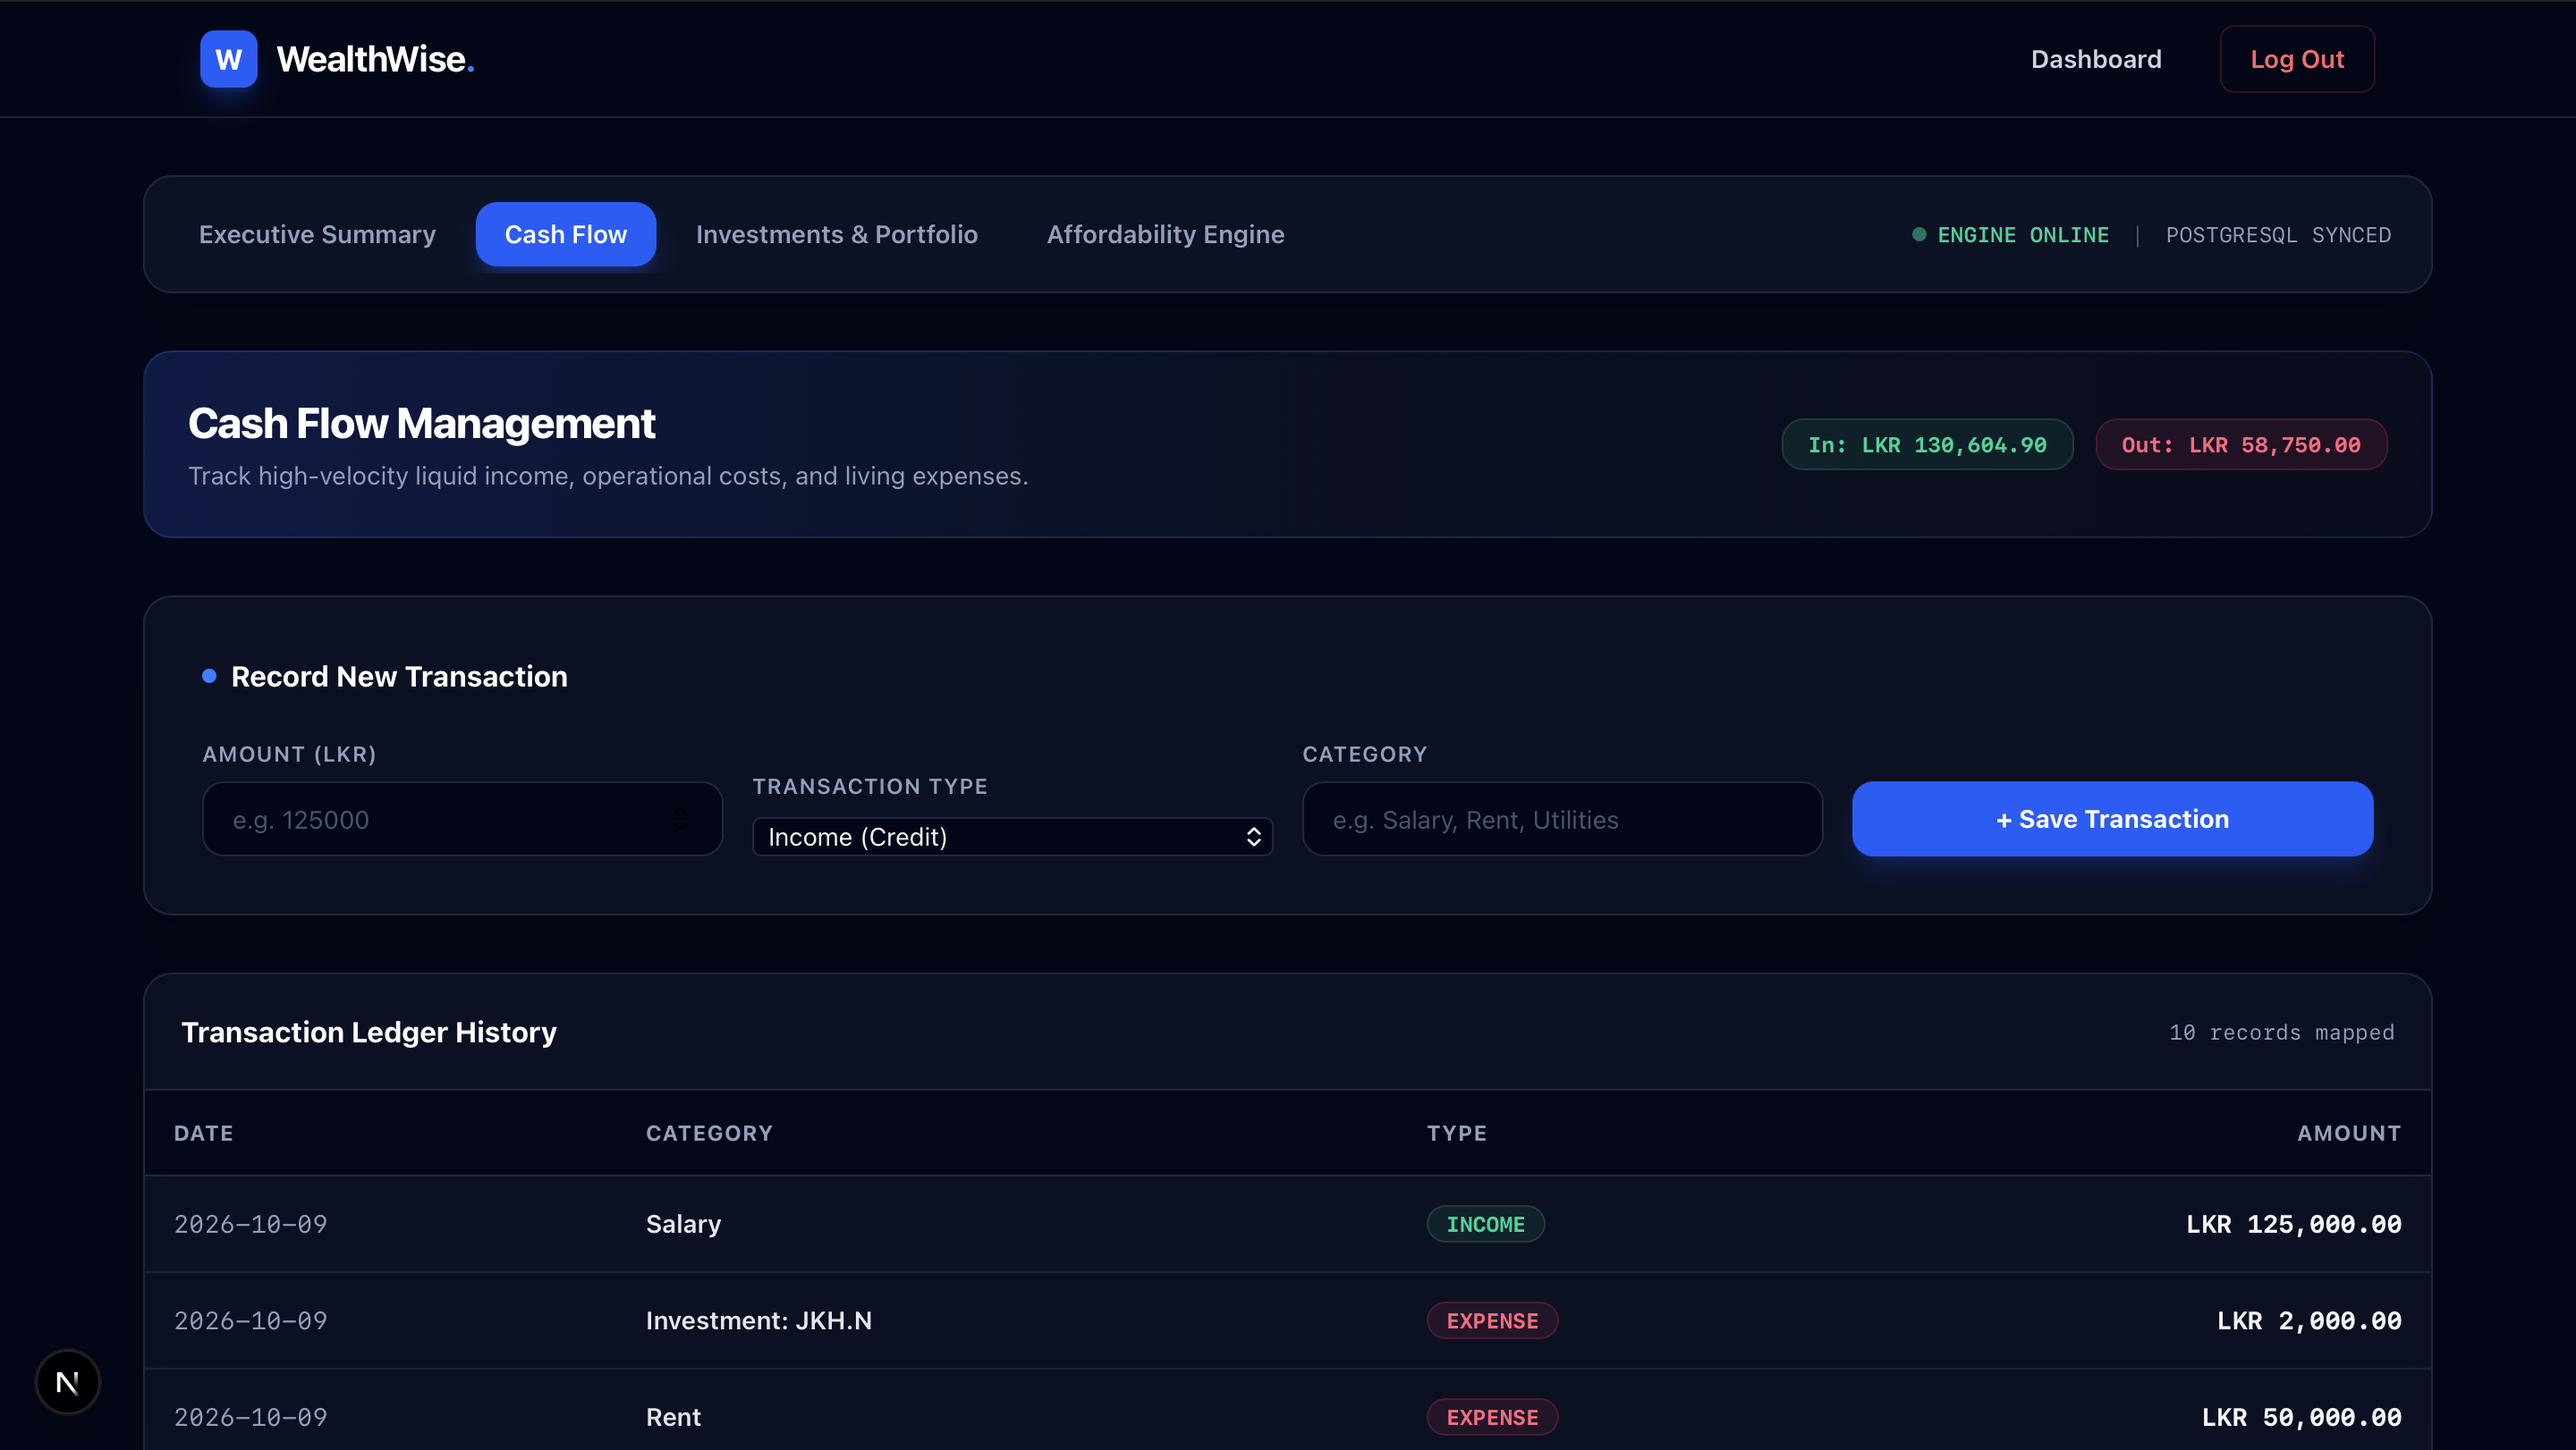
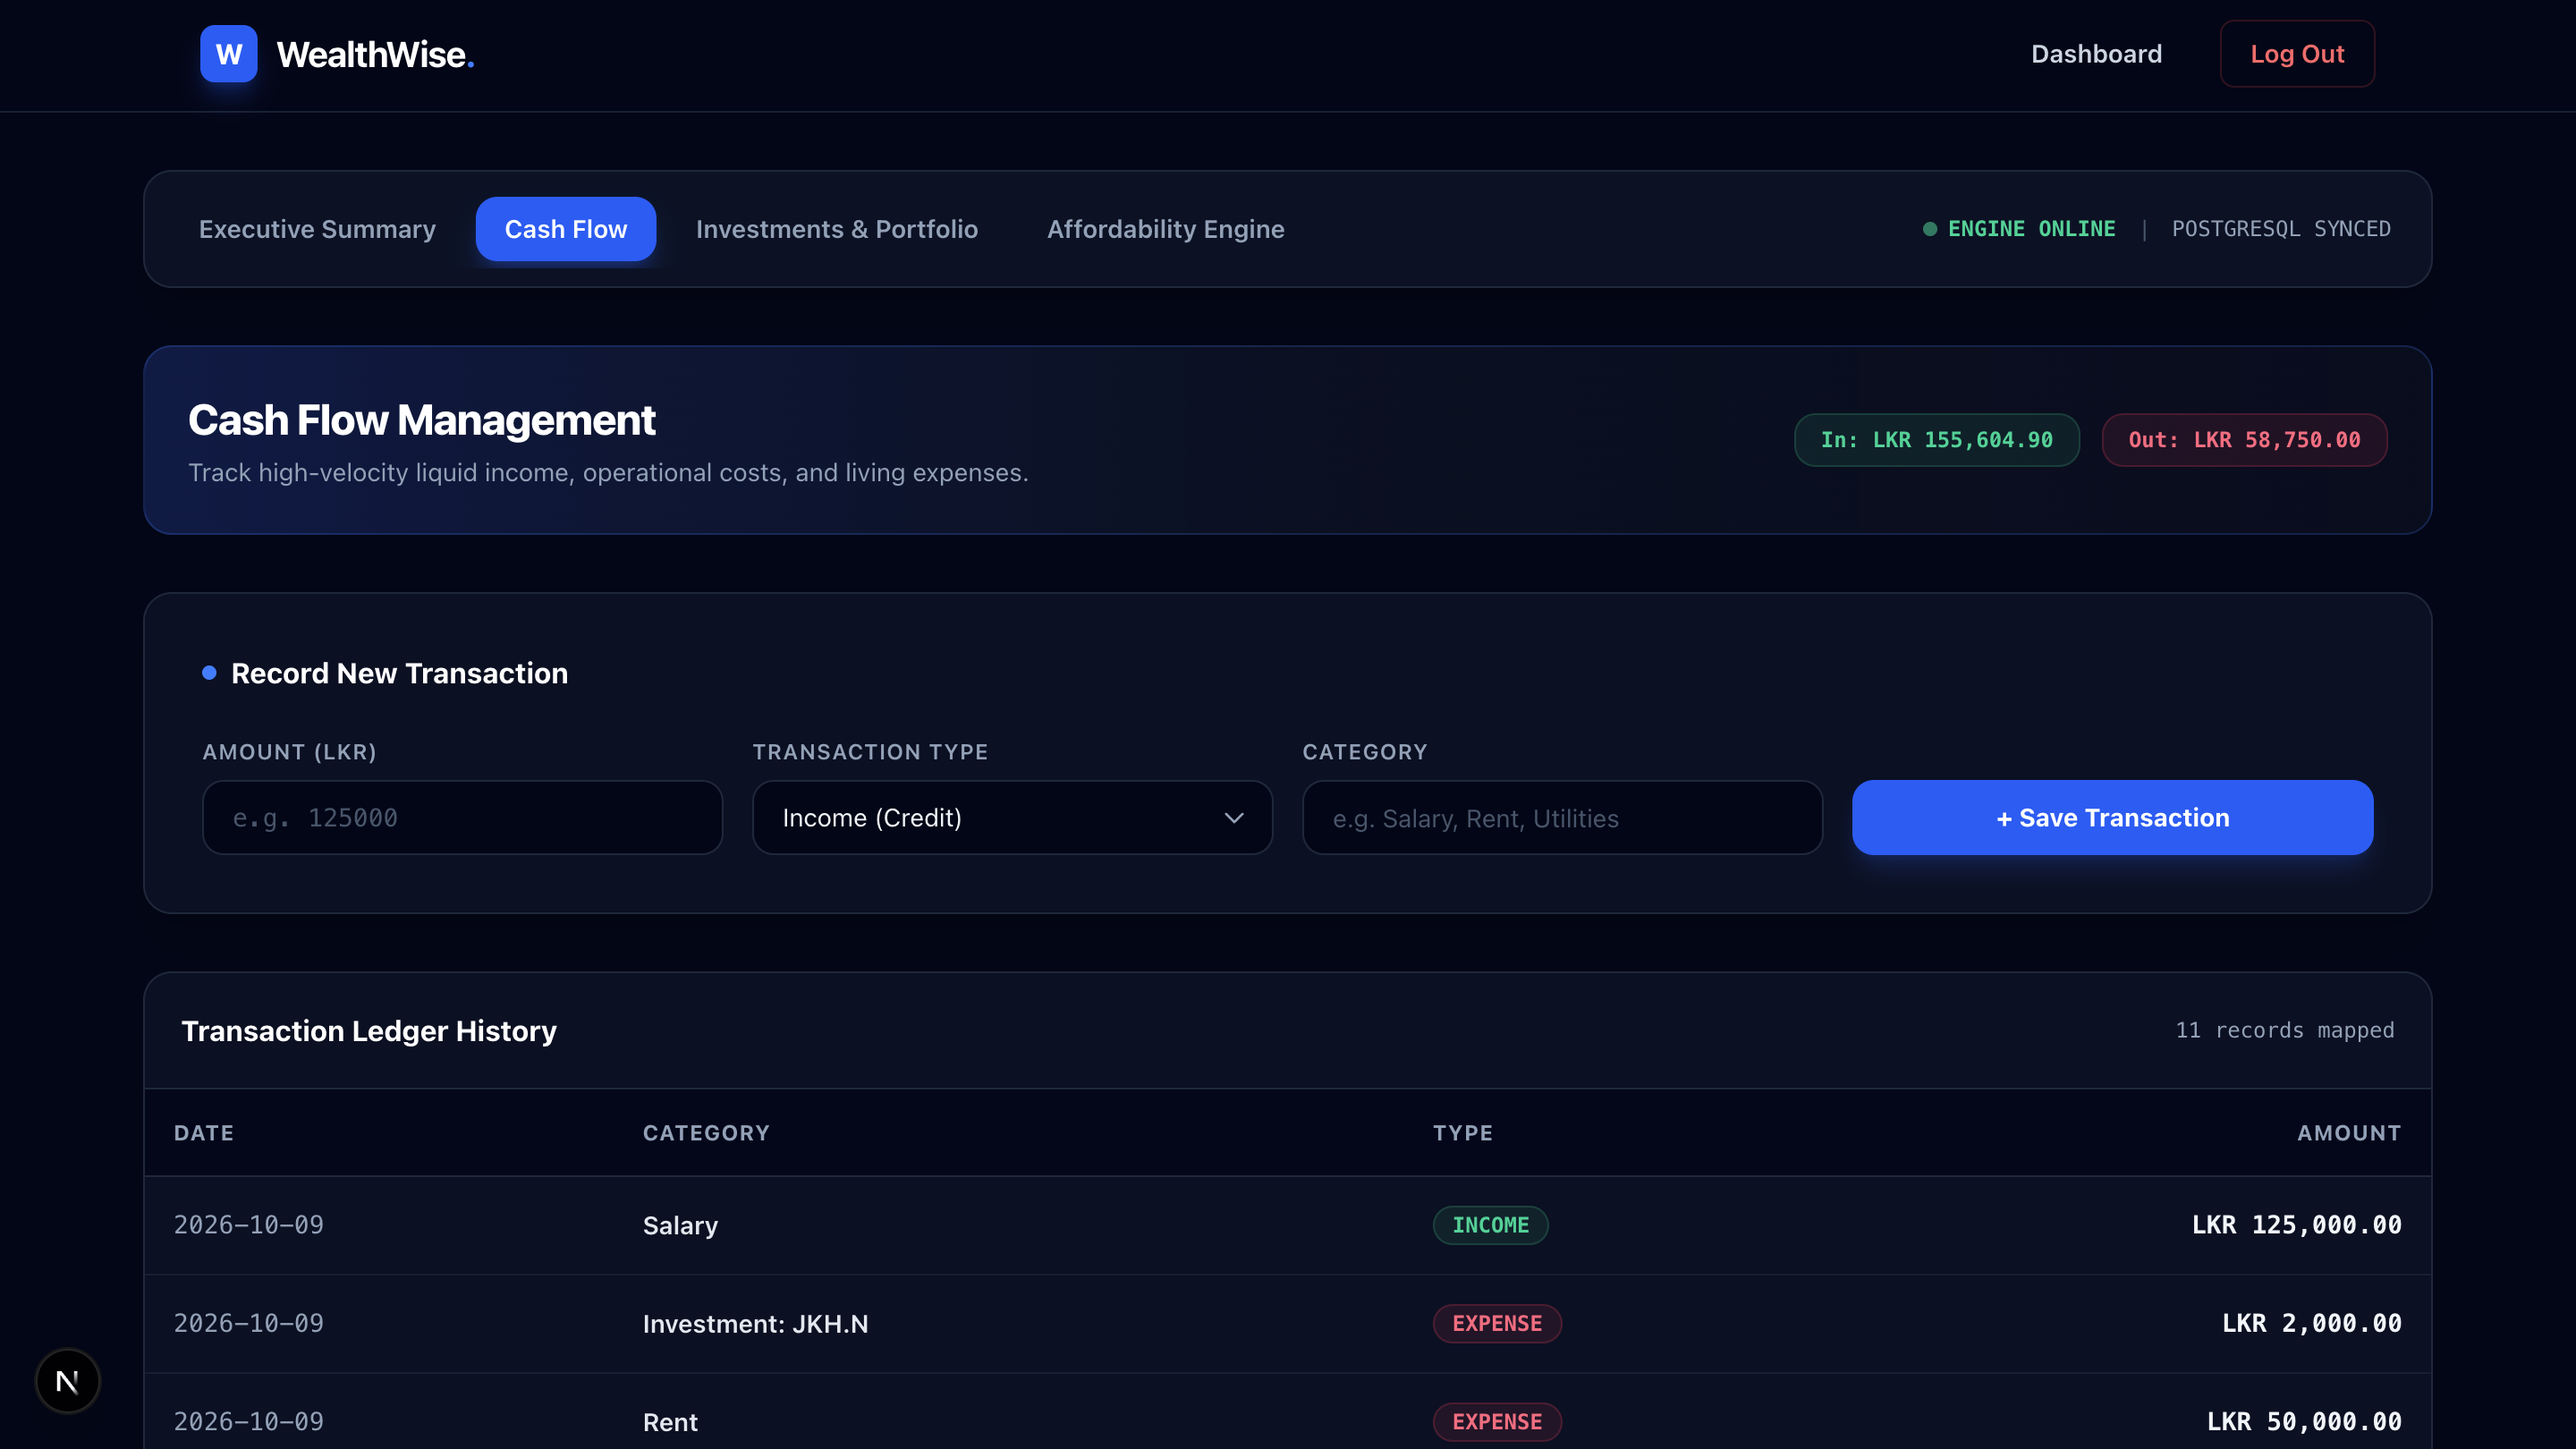
style: normalize cash flow input styling and update screenshot

diff --git a/frontend/app/dashboard/cash-flow/page.tsx b/frontend/app/dashboard/cash-flow/page.tsx
@@ -1,8 +1,12 @@
 /*
- * THEORY: Unified Dark Cash Flow Engine
- * --------------------------------------
- * Client component combining dynamic form inputs with high-velocity ledger telemetry.
- * Styled with slate-900 glassmorphism, glowing focus rings, and high-contrast badges.
+ * THEORY: Unified Dark Cash Flow Engine with Normalized Input System
+ * -------------------------------------------------------------------
+ * 1. UI Normalization: All form controls (amount input, custom select, category input,
+ *    and submit CTA) are locked to an explicit baseline height (h-[42px]).
+ * 2. Custom Select Chroming: 'appearance-none' strips away native OS select widgets.
+ *    A dedicated SVG chevron icon provides platform-consistent visuals across macOS, Windows, and Linux.
+ * 3. Reactive Ledger Sync: Forms re-trigger loadTransactions() upon 200 OK responses to refresh
+ *    both the data table and the telemetry metrics without requiring page navigation.
  */
 "use client";
 
@@ -130,7 +134,7 @@ export default function CashFlowPage() {
         </div>
       )}
 
-      {/* Dark Form Card */}
+      {/* Dark Form Card with Aligned Input System */}
       <div className="p-6 sm:p-8 rounded-2xl bg-slate-900/60 border border-slate-800 shadow-xl backdrop-blur-sm">
         <h3 className="text-base font-bold text-white mb-6 flex items-center gap-2">
           <span className="w-2 h-2 rounded-full bg-blue-500" />
@@ -138,6 +142,7 @@ export default function CashFlowPage() {
         </h3>
 
         <form onSubmit={handleSaveTransaction} className="grid grid-cols-1 md:grid-cols-4 gap-4 items-end">
+          {/* AMOUNT INPUT */}
           <div>
             <label className="block text-xs font-semibold text-slate-400 uppercase tracking-wider mb-2">
               Amount (LKR)
@@ -149,24 +154,33 @@ export default function CashFlowPage() {
               value={amount}
               onChange={(e) => setAmount(e.target.value)}
               placeholder="e.g. 125000"
-              className="w-full px-4 py-2.5 rounded-xl bg-slate-950 border border-slate-800 text-slate-100 placeholder-slate-600 text-sm focus:outline-none focus:ring-2 focus:ring-blue-500 focus:border-transparent transition-all"
+              className="w-full h-[42px] px-4 rounded-xl bg-slate-950 border border-slate-800 text-slate-100 placeholder-slate-600 text-sm focus:outline-none focus:ring-2 focus:ring-blue-500 focus:border-transparent transition-all font-mono"
             />
           </div>
 
+          {/* CUSTOM TRANSACTION TYPE SELECT */}
           <div>
             <label className="block text-xs font-semibold text-slate-400 uppercase tracking-wider mb-2">
               Transaction Type
             </label>
-            <select
-              value={type}
-              onChange={(e) => setType(e.target.value)}
-              className="w-full px-4 py-2.5 rounded-xl bg-slate-950 border border-slate-800 text-slate-100 text-sm focus:outline-none focus:ring-2 focus:ring-blue-500 focus:border-transparent transition-all"
-            >
-              <option value="INCOME">Income (Credit)</option>
-              <option value="EXPENSE">Expense (Debit)</option>
-            </select>
+            <div className="relative">
+              <select
+                value={type}
+                onChange={(e) => setType(e.target.value)}
+                className="w-full h-[42px] px-4 pr-10 rounded-xl bg-slate-950 border border-slate-800 text-slate-100 text-sm focus:outline-none focus:ring-2 focus:ring-blue-500 focus:border-transparent transition-all appearance-none cursor-pointer"
+              >
+                <option value="INCOME">Income (Credit)</option>
+                <option value="EXPENSE">Expense (Debit)</option>
+              </select>
+              <div className="pointer-events-none absolute inset-y-0 right-0 flex items-center px-3.5 text-slate-400">
+                <svg className="w-4 h-4" fill="none" stroke="currentColor" viewBox="0 0 24 24">
+                  <path strokeLinecap="round" strokeLinejoin="round" strokeWidth="2" d="M19 9l-7 7-7-7" />
+                </svg>
+              </div>
+            </div>
           </div>
 
+          {/* CATEGORY INPUT */}
           <div>
             <label className="block text-xs font-semibold text-slate-400 uppercase tracking-wider mb-2">
               Category
@@ -177,10 +191,11 @@ export default function CashFlowPage() {
               value={category}
               onChange={(e) => setCategory(e.target.value)}
               placeholder="e.g. Salary, Rent, Utilities"
-              className="w-full px-4 py-2.5 rounded-xl bg-slate-950 border border-slate-800 text-slate-100 placeholder-slate-600 text-sm focus:outline-none focus:ring-2 focus:ring-blue-500 focus:border-transparent transition-all"
+              className="w-full h-[42px] px-4 rounded-xl bg-slate-950 border border-slate-800 text-slate-100 placeholder-slate-600 text-sm focus:outline-none focus:ring-2 focus:ring-blue-500 focus:border-transparent transition-all"
             />
           </div>
 
+          {/* SUBMIT BUTTON */}
           <button
             type="submit"
             disabled={submitting}
